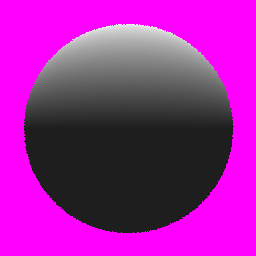
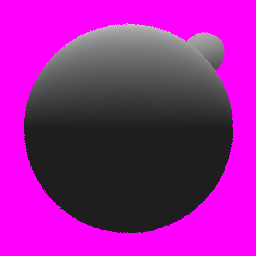
New format for mulitple objects

Changed region(s): [[0.1562, 0.0938, 0.875, 0.3125]]

diff --git a/RaytracingStart/main.py b/RaytracingStart/main.py
@@ -73,33 +73,46 @@ backgroundPixelByteWidth = 4 if backgroundMeta['alpha'] else 3
 
 frame = Frame(256, 256)
 
-cameraOrigin = Point3D(0,0,1)
-origin = Point3D(0,0,0)
-cameraLookAt = origin
-cameraUp = Vector(0,1,0)
-cameraBackgroundColor = Vector(0,0,0)
-fov = 45 / 360 * math.pi * 2 # convert 45 degrees to radians. Should result in pi/4 ~= .785
+cameraOrigin = Point3D(0, 0, 1)
+origin = Point3D(0, 0, 0)
+cameraLookAt = Point3D(0, 0, 0)
+cameraUp = Vector(0, 1, 0)
+cameraBackgroundColor = Vector(0, 0, 0)
+# convert 45 degrees to radians. Should result in pi/4 ~= .785
+fov = 45 / 360 * math.pi * 2
+raysPerPixel = 1
+focusPoint = 0
 
-camera = Camera(cameraOrigin, cameraLookAt, cameraUp, fov, cameraBackgroundColor)
+camera = PerspectiveCamera(cameraOrigin, cameraLookAt, cameraUp, cameraBackgroundColor, fov)
 
-lightDirection = Vector(0,-1,0)
-lightColor = Vector(255,255,255)
+lightDirection = Vector(0, -1, 0)
+lightColor = Vector(255, 255, 255)
 
 light = DirectionalLight(lightColor, 1, lightDirection)
+light2 = DirectionalLight(Vector(0, 0, 255), 1, Vector(1, 0, 0))
 
-sphereCenter = origin
+sphereCenter = Point3D(0,0,-.2)
 sphereRadius = .5
-sphereMaterialColor = Vector(255, 0, 0)
-sphereMaterialSpecularColor = Vector(255,255,255)
+sphereMaterialColor = Vector(255, 255, 255)
+sphereMaterialSpecularColor = Vector(255, 255, 255)
 sphereMaterialSpecularStrength = 1
 
-sphereMaterial = Material(sphereMaterialColor, sphereMaterialSpecularColor, sphereMaterialSpecularStrength)
+sphereMaterial = Material(
+    sphereMaterialColor, sphereMaterialSpecularColor, sphereMaterialSpecularStrength,.2)
+
+sphereMaterial2 = Material(
+    Vector(255, 255, 255), sphereMaterialSpecularColor, sphereMaterialSpecularStrength, .5)
+
+sphereMaterial3 = Material(
+    Vector(0, 255, 0), sphereMaterialSpecularColor, sphereMaterialSpecularStrength, 0)
 
 sphere = Sphere(sphereMaterial, sphereCenter, sphereRadius)
+sphere2 = Sphere(sphereMaterial2, Point3D(.2, .2, .5), .1)
+sphere3 = Sphere(sphereMaterial2, Point3D(-.2, -.1, .5), .1)
+sphere4 = Sphere(sphereMaterial3, Point3D(0, -.1, .5), .1)
 
 lights = [light]
-objects = [sphere]
-
+objects = [sphere, sphere2, sphere3, sphere4]
 #Now loop over every pixel in our frame
 
 #For every pixel

diff --git a/RaytracingStart/Material.py b/RaytracingStart/Material.py
@@ -2,7 +2,8 @@ from Vector import Vector
 
 class Material:
     """ Definition of the material found on an object. """
-    def __init__(self, diffuseColor:Vector, specularColor:Vector, specularStrength:float):
+    def __init__(self, diffuseColor:Vector, specularColor:Vector, specularStrength:float, reflectivity:float):
         self.diffuseColor = diffuseColor
         self.specularColor = specularColor
         self.specularStrength  = specularStrength
+        self.reflectivity = reflectivity

diff --git a/RaytracingStart/PerspectiveCamera.py b/RaytracingStart/PerspectiveCamera.py
@@ -5,6 +5,6 @@ from Vector import Vector
 class PerspectiveCamera(Camera):
     """ A camera represented a physical camera or eye. """
     def __init__(self, origin:Point3D, lookAt:Point3D, up:Point3D, backgroundColor:Vector, fov:float):
-        Camera.__init__(self, origin, lookAt, up, backgroundColor)
+        Camera.__init__(self, origin, lookAt, up, fov, backgroundColor)
         self.fov = fov
       
